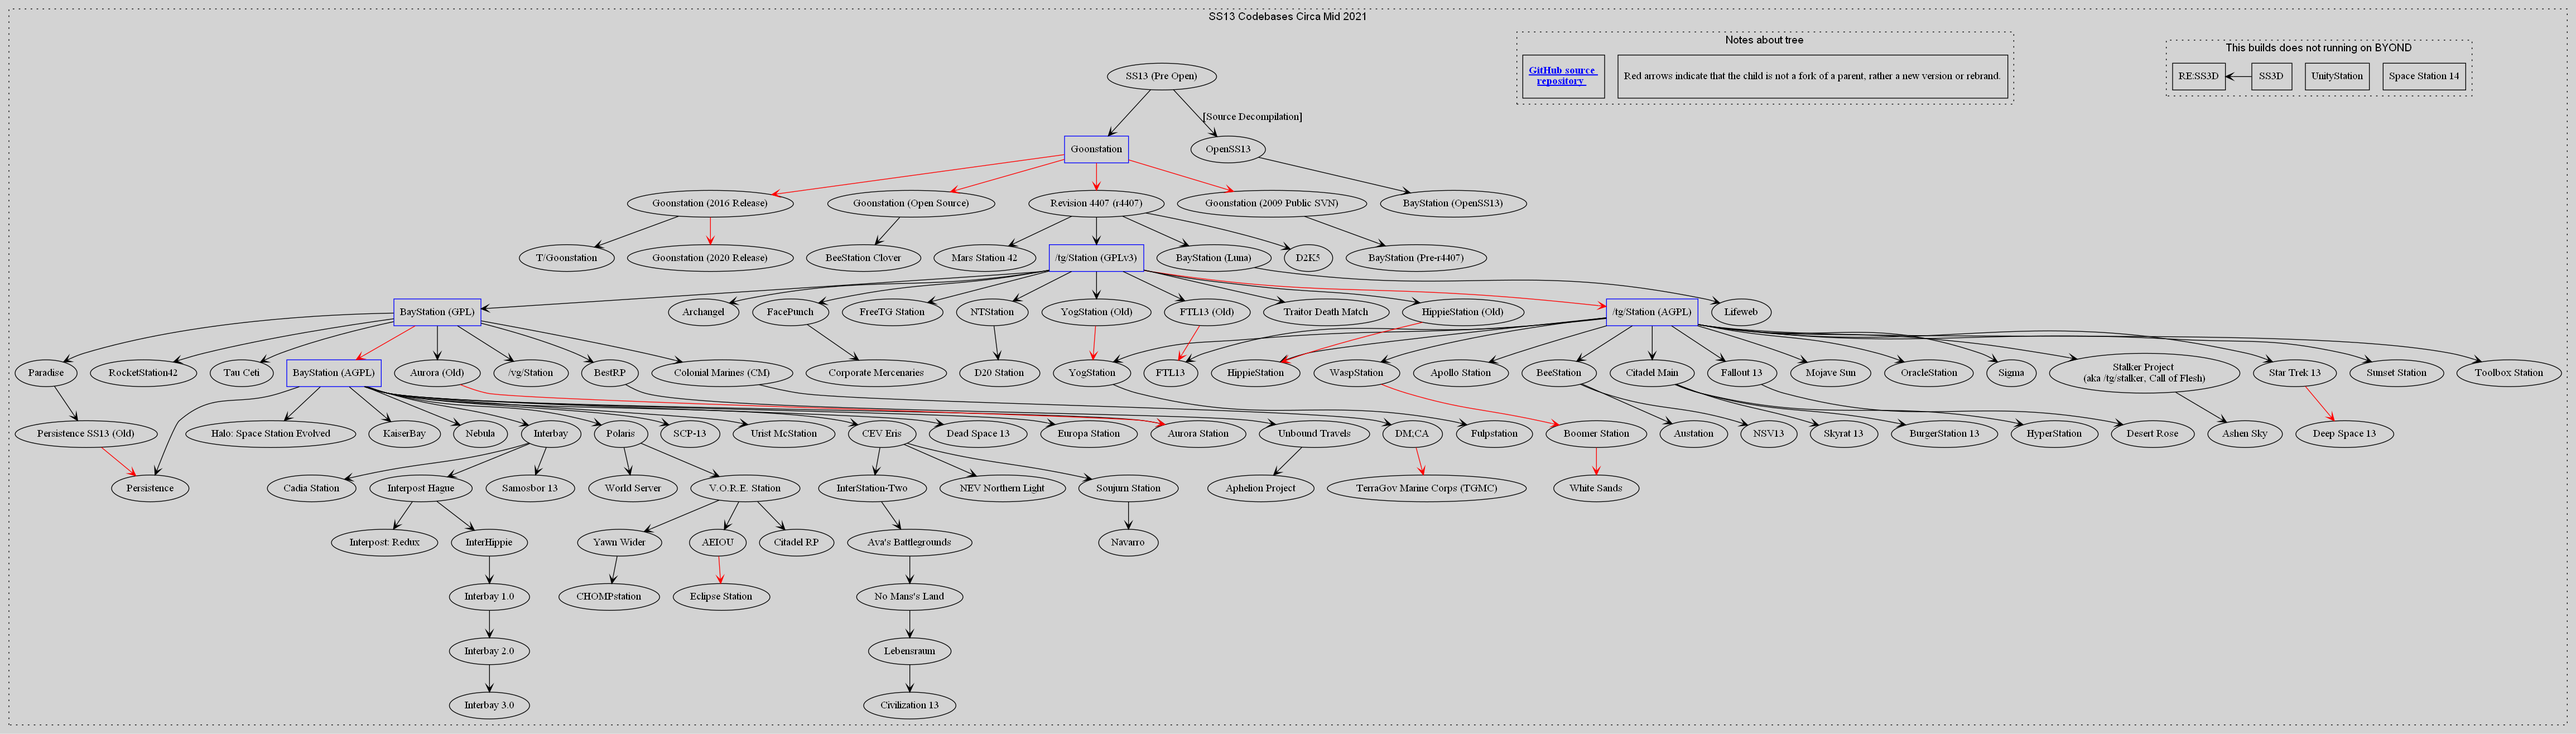
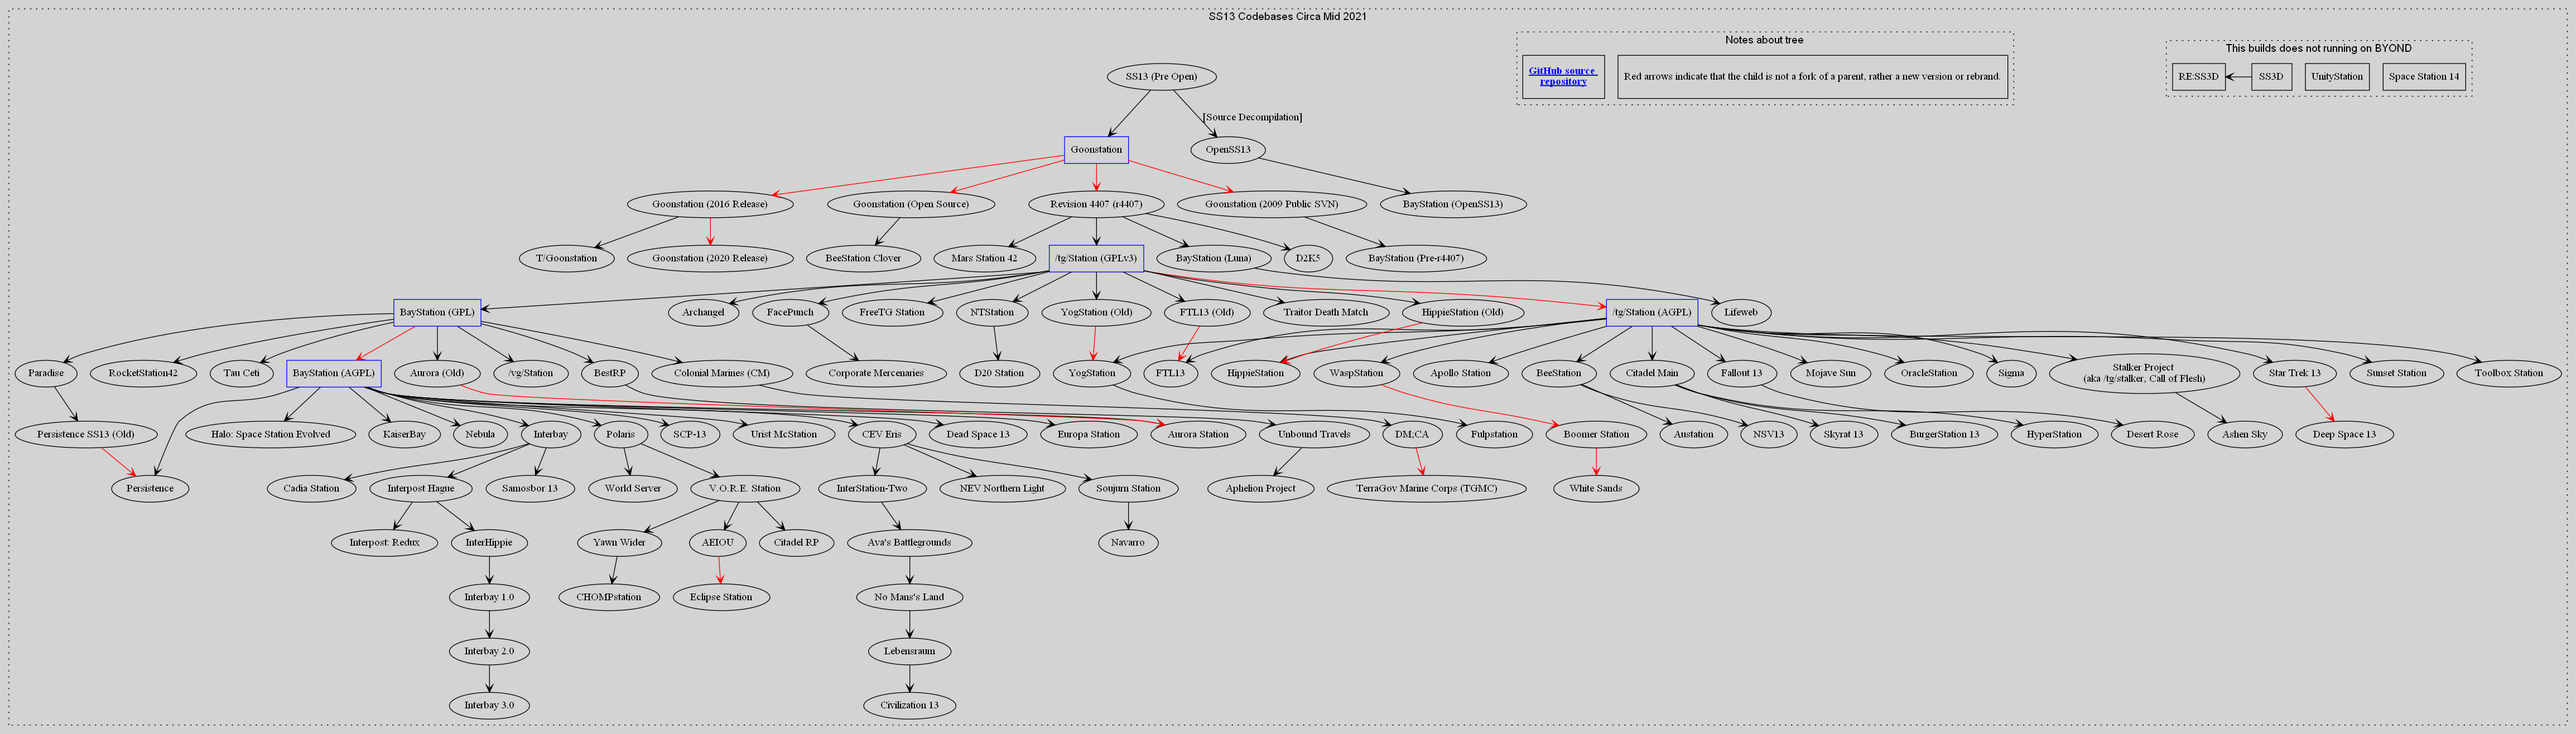
CI #101 - Scripts updated, font bug fixed

diff --git a/README.md b/README.md
@@ -64,7 +64,7 @@
 A [DOT graph](https://graphviz.org/) of the family tree of [Space Station 13](http://www.byond.com/games/Exadv1/SpaceStation13) builds codebases.
 
 ![Graphviz graph](./out/tree.svg?sanitize=true)
-**Compiled: June 06, 2021 - 10:07AM (ÜTC +03)**
+**Compiled: June 06, 2021 - 04:09PM (ÜTC +03)**
 (or check auto-generated datetime [here](./out/compile_datetime.txt))
 
 ---
